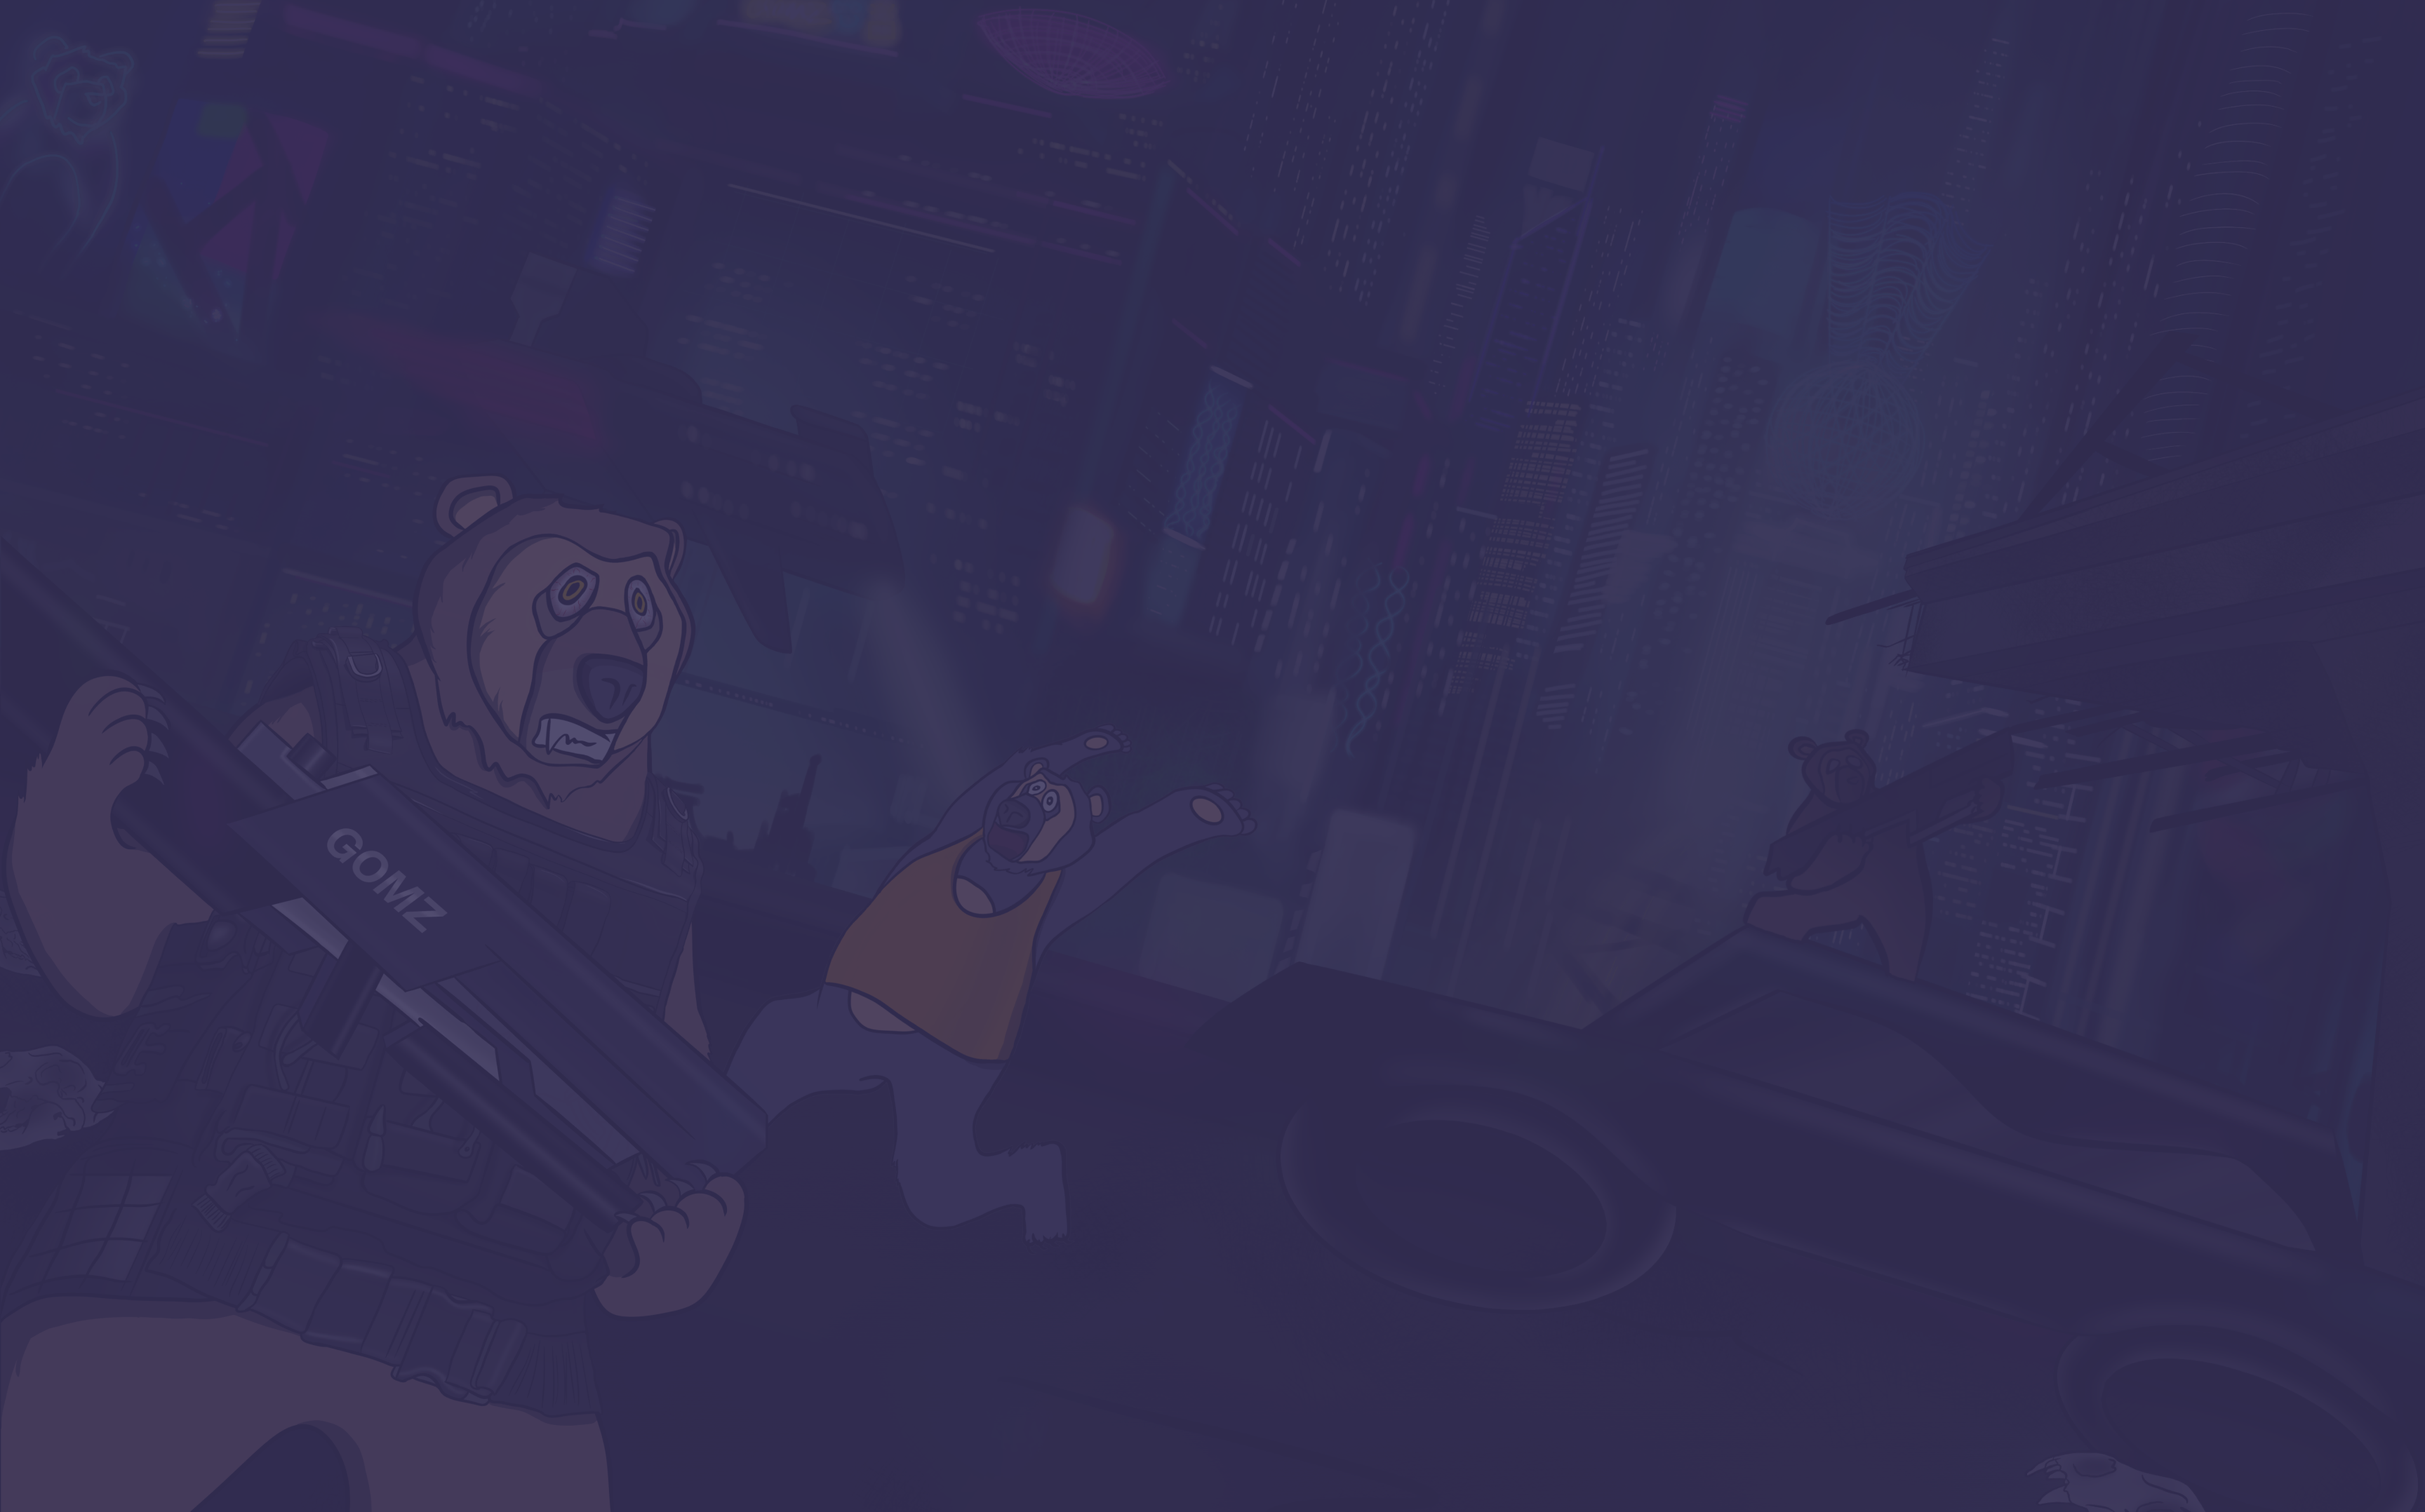
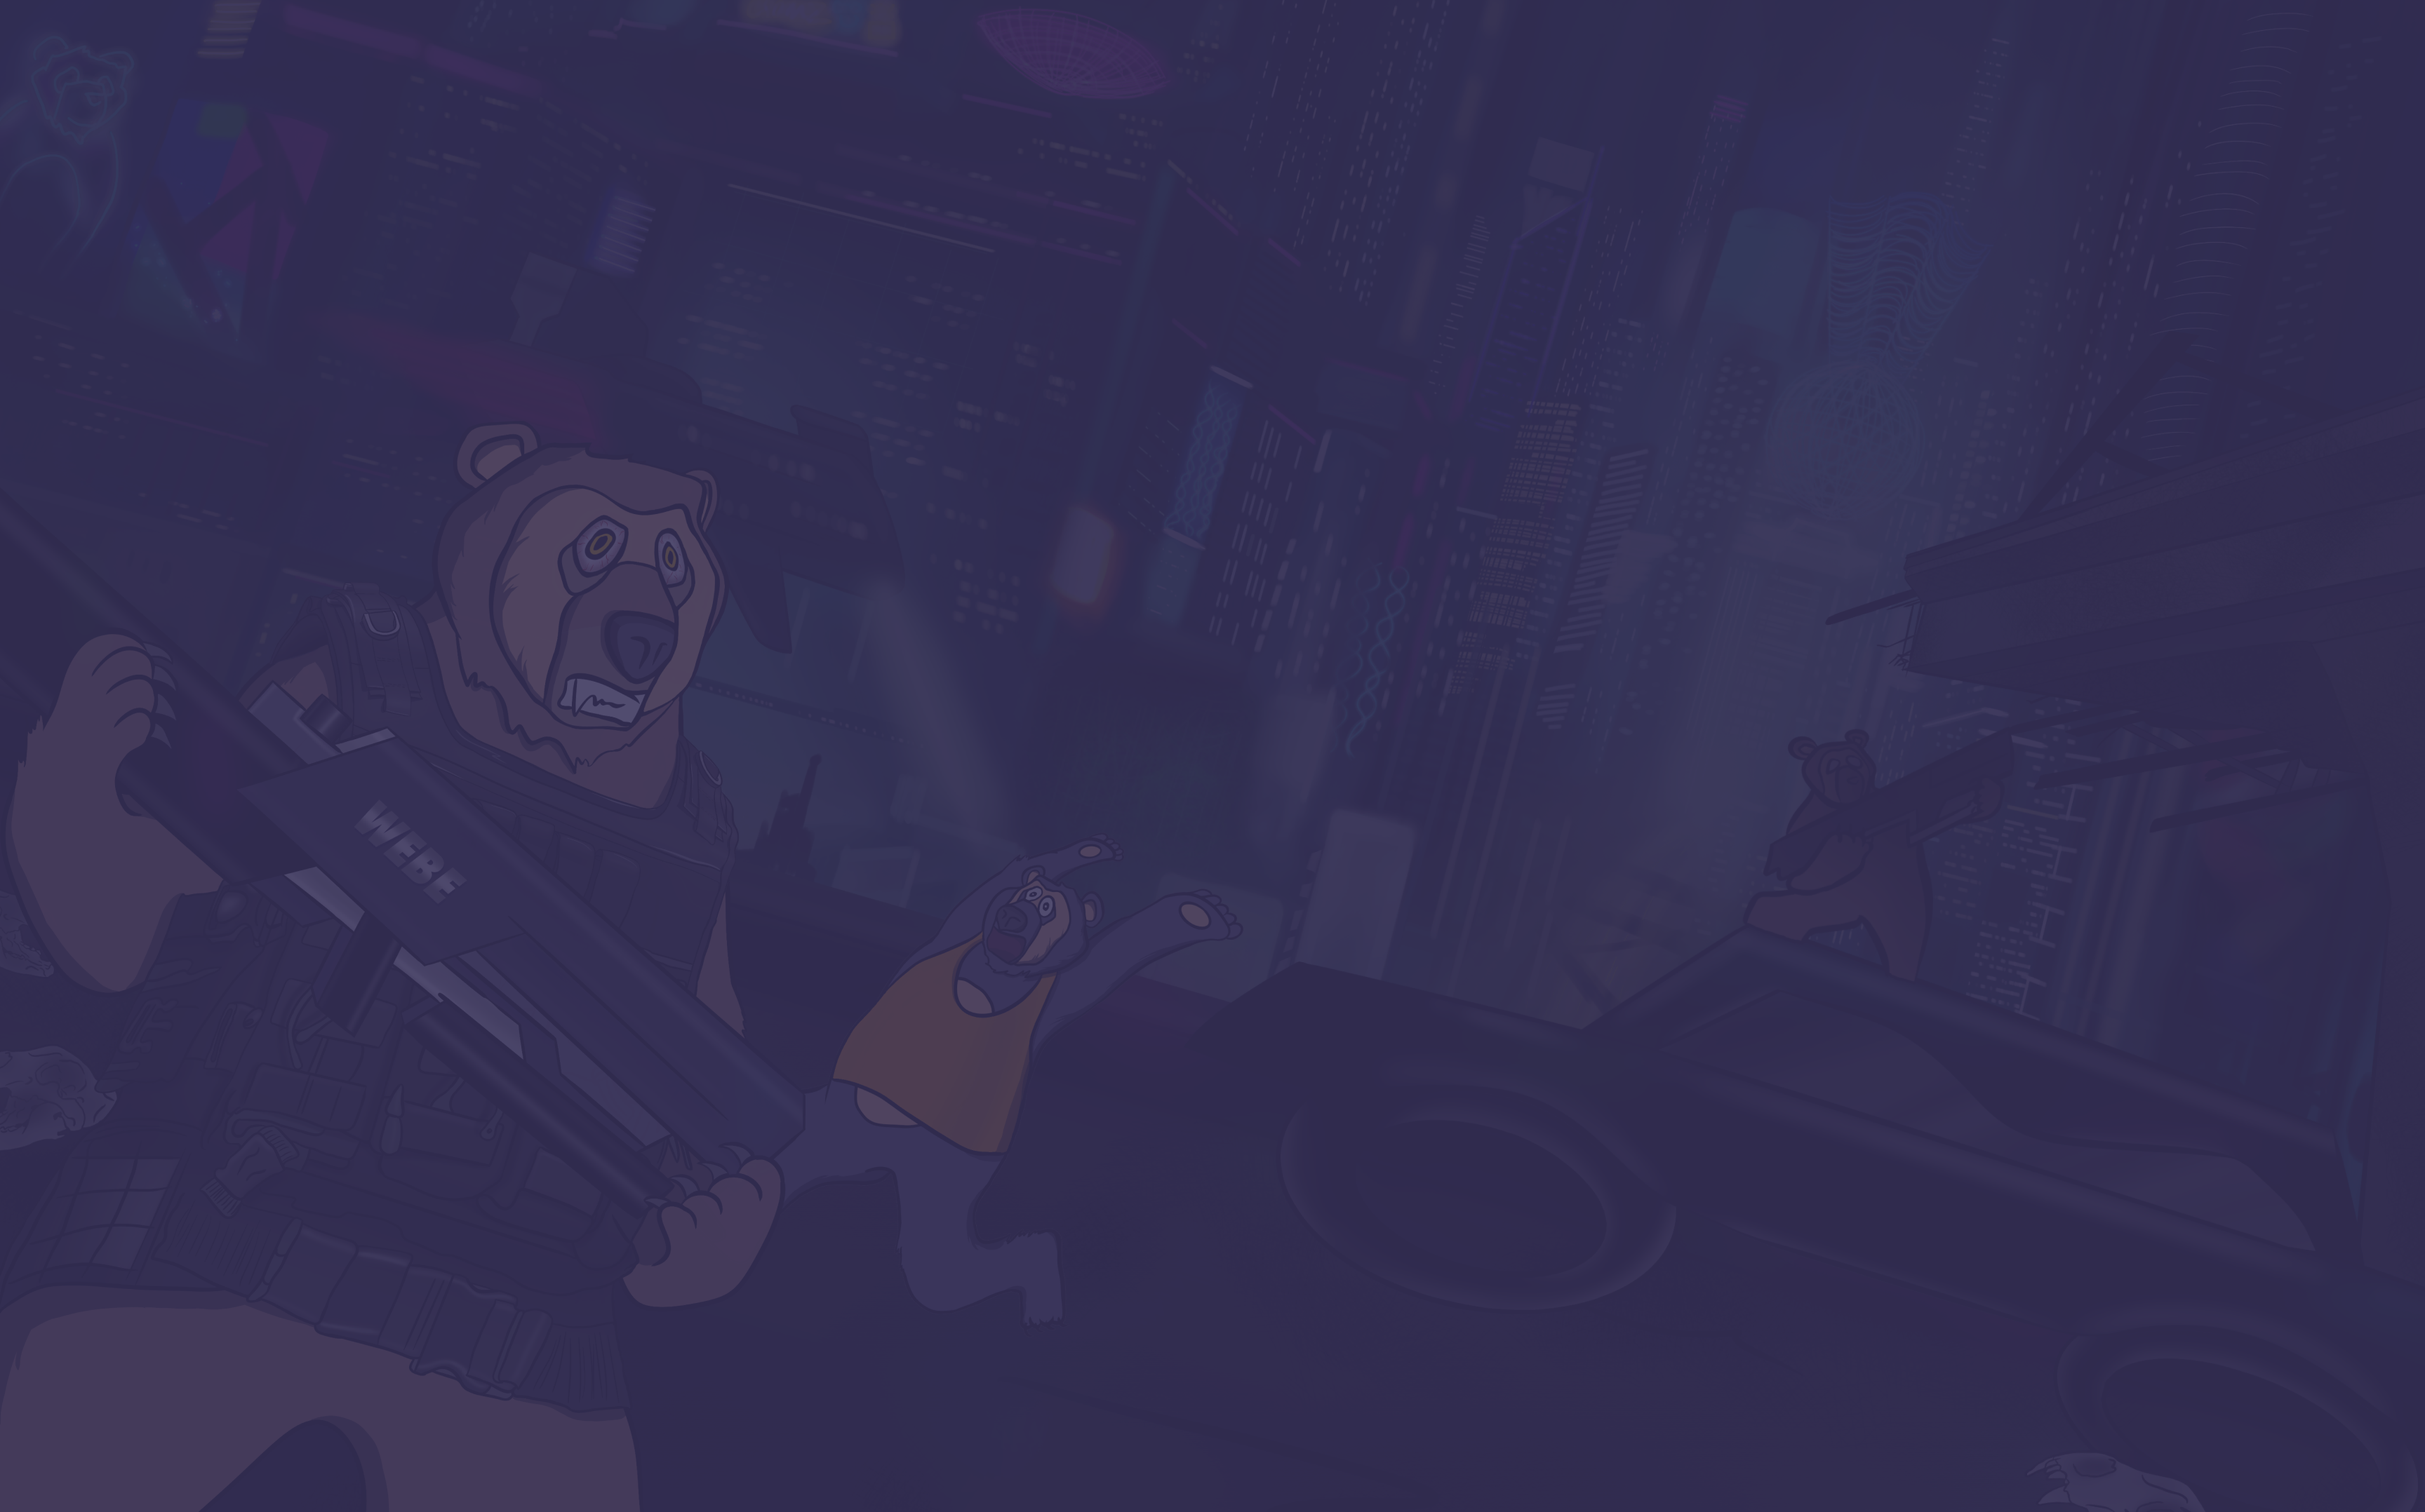
fix: story illust

diff --git a/src/pages/home/index.tsx b/src/pages/home/index.tsx
@@ -138,7 +138,7 @@ const Index: NextPage = () => {
 									>
 										<Div
 											style={{
-											backgroundImage: `url(${IMAGES.gomzStory1})`,
+											backgroundImage: `url(${IMAGES.webeStory1})`,
 											backgroundSize: "cover",
 											backgroundPositionY: "center",
 											backgroundPositionX: "center",
@@ -167,7 +167,7 @@ const Index: NextPage = () => {
 																hFull
 																textXl
 																style={{
-																	backgroundImage: `url(${IMAGES.gomzStory2})`,
+																	backgroundImage: `url(${IMAGES.webeStory2})`,
 																	backgroundSize: "cover",
 																	backgroundPositionY: "center",
 																	backgroundPositionX: "center",
@@ -200,7 +200,7 @@ const Index: NextPage = () => {
 																hFull
 																textXl
 																style={{
-																	backgroundImage: `url(${IMAGES.gomzStory3})`,
+																	backgroundImage: `url(${IMAGES.webeStory3})`,
 																	backgroundSize: "cover",
 																	backgroundPositionY: "center",
 																	backgroundPositionX: "center",
@@ -230,7 +230,7 @@ const Index: NextPage = () => {
 																hFull
 																textXl
 																style={{
-																	backgroundImage: `url(${IMAGES.gomzStory4})`,
+																	backgroundImage: `url(${IMAGES.webeStory4})`,
 																	backgroundSize: "cover",
 																	backgroundPositionY: "center",
 																	backgroundPositionX: "center",
@@ -302,7 +302,7 @@ const Index: NextPage = () => {
 										<Div absolute flex itemsCenter wFull hFull top0 left0 clx={"group transition hover:bg-primary-light hover:transition-all"} roundedLg>
 											<Div textSecondary2 textLg px20 textLeft
 												clx={"opacity-0 transition group-hover:transition-all group-hover:translate-y-10 group-hover:opacity-100"}
-											>Wizard Webe:<Div fontSize12 balooR> 3D collection of our WeBes.
+											>Wizard WeBe:<Div fontSize12 balooR> 3D collection of our WeBes.
 											Holders receive a 3D version of their minted WeBe to expand its movement in the metaverse.</Div></Div>										</Div>
 									</Div>
 									<Div textSecondary fontSize36 mx50 style={{webkitTextStroke: "1px #000"}}>Collection</Div>
@@ -496,7 +496,7 @@ const Index: NextPage = () => {
 											hFull
 											textXl
 											style={{
-												backgroundImage: `url(${IMAGES.gomzStory1})`,
+												backgroundImage: `url(${IMAGES.webeStory1})`,
 												backgroundSize: "cover",
 												backdropFilter: "brightness(50%)",
 												backgroundPositionY: "center",
@@ -526,7 +526,7 @@ const Index: NextPage = () => {
 																hFull
 																textXl
 																style={{
-																	backgroundImage: `url(${IMAGES.gomzStory2})`,
+																	backgroundImage: `url(${IMAGES.webeStory2})`,
 																	backgroundSize: "cover",
 																	backgroundPositionY: "center",
 																	backgroundPositionX: "center",
@@ -536,10 +536,10 @@ const Index: NextPage = () => {
 															>
 																<Div flex justifyStart>
 																	<Div style={{textShadow: "0px 3px 0px rgba(0, 0, 0, 0.81)"}}>
-																		<Div maxW={500} textWhite mx80 my350 fontSize24 textLeft balooR>
+																		<Div maxW={500} textWhite mx80 my380 fontSize24 textLeft balooR>
 																			8,888 of these bears have turned to space travel with an altruistic vision:
 																		</Div>
-																		<Div maxW={500} textWhite mx80 my-320 fontSize24 textLeft balooR>
+																		<Div maxW={500} textWhite mx80 my-360 fontSize24 textLeft balooR>
 																			Establish a “BetterWorld”, a free and creative playground for diverse innovators.
 																		</Div>
 																		<EmptyBlock h={100} />
@@ -559,7 +559,7 @@ const Index: NextPage = () => {
 																hFull
 																textXl
 																style={{
-																	backgroundImage: `url(${IMAGES.gomzStory3})`,
+																	backgroundImage: `url(${IMAGES.webeStory3})`,
 																	backgroundSize: "cover",
 																	backgroundPositionY: "center",
 																	backgroundPositionX: "center",
@@ -589,7 +589,7 @@ const Index: NextPage = () => {
 																hFull
 																textXl
 																style={{
-																	backgroundImage: `url(${IMAGES.gomzStory4})`,
+																	backgroundImage: `url(${IMAGES.webeStory4})`,
 																	backgroundSize: "cover",
 																	backgroundPositionY: "center",
 																	backgroundPositionX: "center",
@@ -693,7 +693,7 @@ const Index: NextPage = () => {
 										<Div flex itemsCenter absolute wFull hFull top0 left0 clx={"group transition hover:bg-primary-light hover:transition-all"} roundedLg>
 												<Div textSecondary2 px30 fontSize={"1.5vw"}
 													clx={"opacity-0 transition group-hover:transition-all group-hover:translate-y-10 group-hover:opacity-100"}
-												>Wizard Webe:<Div balooR fontSize={"0.95vw"}> 3D collection of our WeBes.
+												>Wizard WeBe:<Div balooR fontSize={"0.95vw"}> 3D collection of our WeBes.
 												Holders receive a 3D version of their minted WeBe to expand its movement in the metaverse.</Div></Div>
 										</Div>
 									</Div>

diff --git a/src/modules/images.ts b/src/modules/images.ts
@@ -1,10 +1,10 @@
 export const IMAGES = {
     spaceBg: '/images/spaceBgSquare.png',
     gomzAstronaut: '/images/gomzAstronaut.png',
-    gomzStory1: '/images/gomzStory1.png',
-    gomzStory2: '/images/gomzStory2.png',
-    gomzStory3: '/images/gomzStory3.png',
-    gomzStory4: '/images/gomzStory4.png',
+    webeStory1: '/images/webeStory1.png',
+    webeStory2: '/images/webeStory2.png',
+    webeStory3: '/images/webeStory3.png',
+    webeStory4: '/images/webeStory4.png',
     gomzInnovate: '/images/gomzInnovate.png',
     gomzRebel: '/images/gomzRebel.png',
     quote: '/images/quote.png',
